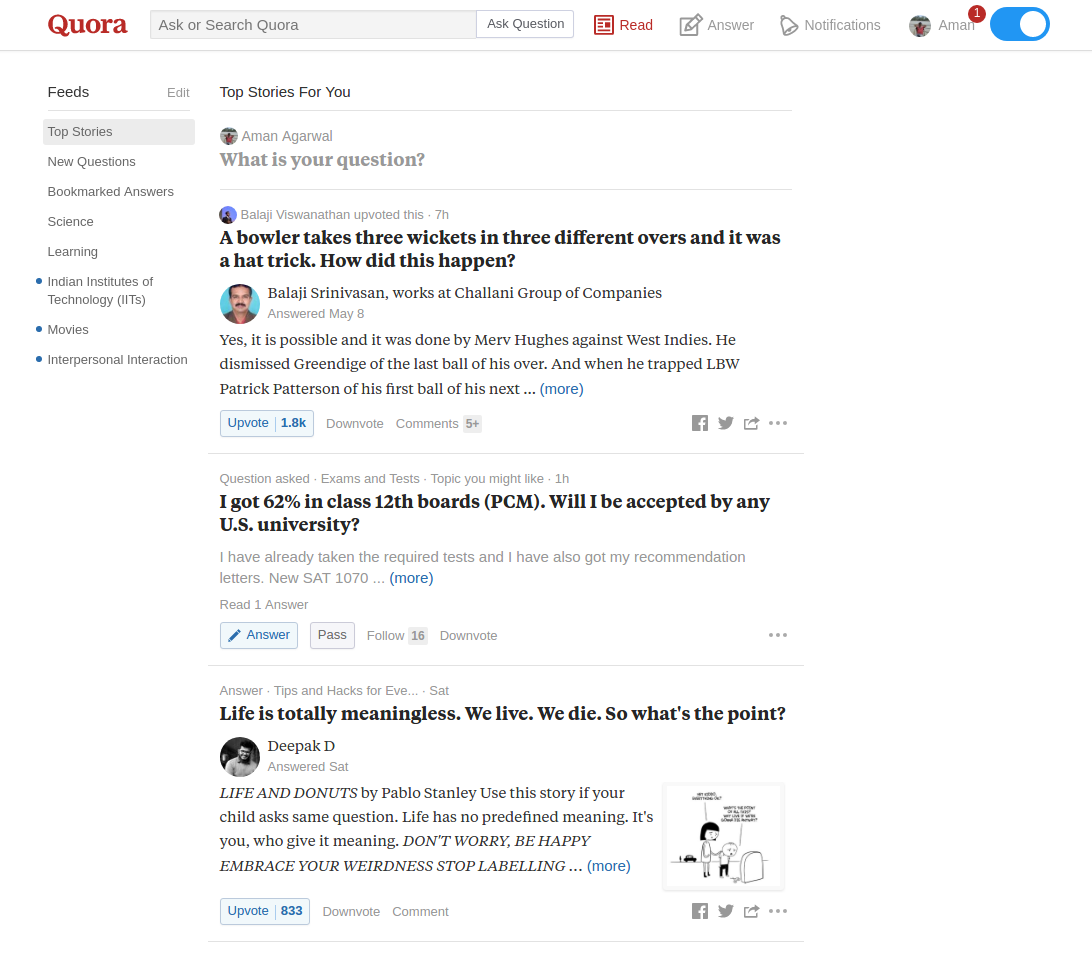
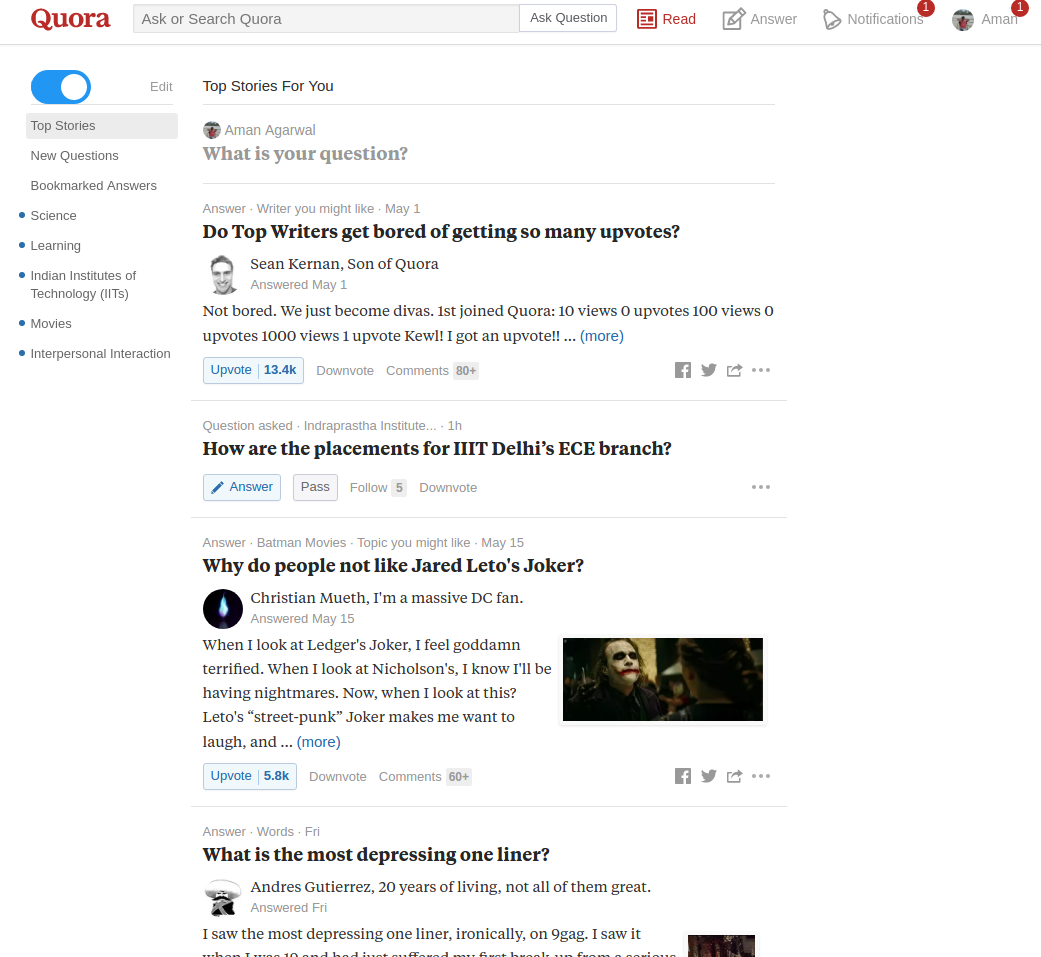
search bar operational

Changed region(s): [[0.0307, 0.0, 1.0, 1.0], [0.6148, 0.7879, 0.7378, 1.0]]

diff --git a/see-Quora.js b/see-Quora.js
@@ -19,8 +19,8 @@
 
 //Add the toggle switch to the Quora home page.
 
-var header_elements = document.getElementsByClassName("header_contents"); // header_contents is the class name of the HTML element where we add the switch 
-header_elements[0].innerHTML += "<hr><label class=\"switch\">" +
+var header_elements = document.getElementsByClassName("header_logo"); // header_contents is the class name of the HTML element where we add the switch 
+header_elements[0].innerHTML += "<br><hr><label class=\"switch\">" +
 	"<input type=\"checkbox\" onchange=\"handleClick(this)\">" +
 	"<div class=\"slider round\"></div>" +
 	"</label>" +

diff --git a/chrome-ext/content.js b/chrome-ext/content.js
@@ -1,8 +1,8 @@
 //I had to hardcode all the things instead of calling functions.
 
 var state = 0; 
-var header_elements = document.getElementsByClassName("header_contents"); 
-header_elements[0].innerHTML += "<hr><label class=\"switch\">" +
+var header_elements = document.getElementsByClassName("header_logo"); 
+header_elements[0].innerHTML += "<br><hr><label class=\"switch\">" +
 	"<input type=\"checkbox\" id=\"clik\">" +
 	"<div class=\"slider round\"></div>" +
 	"</label>" +
